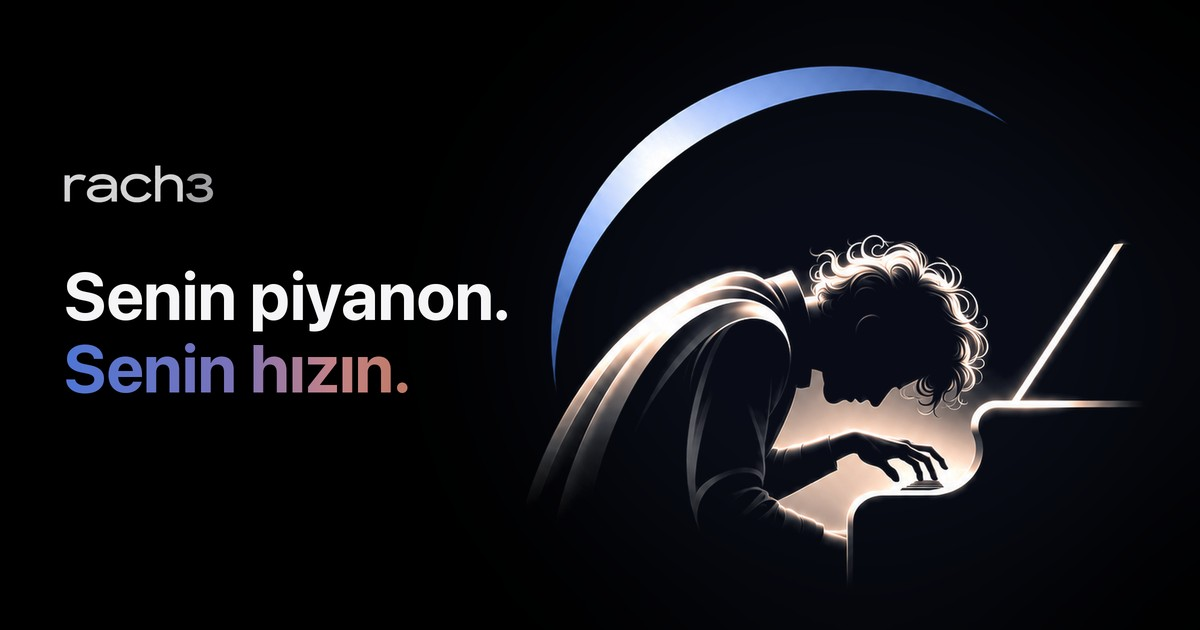
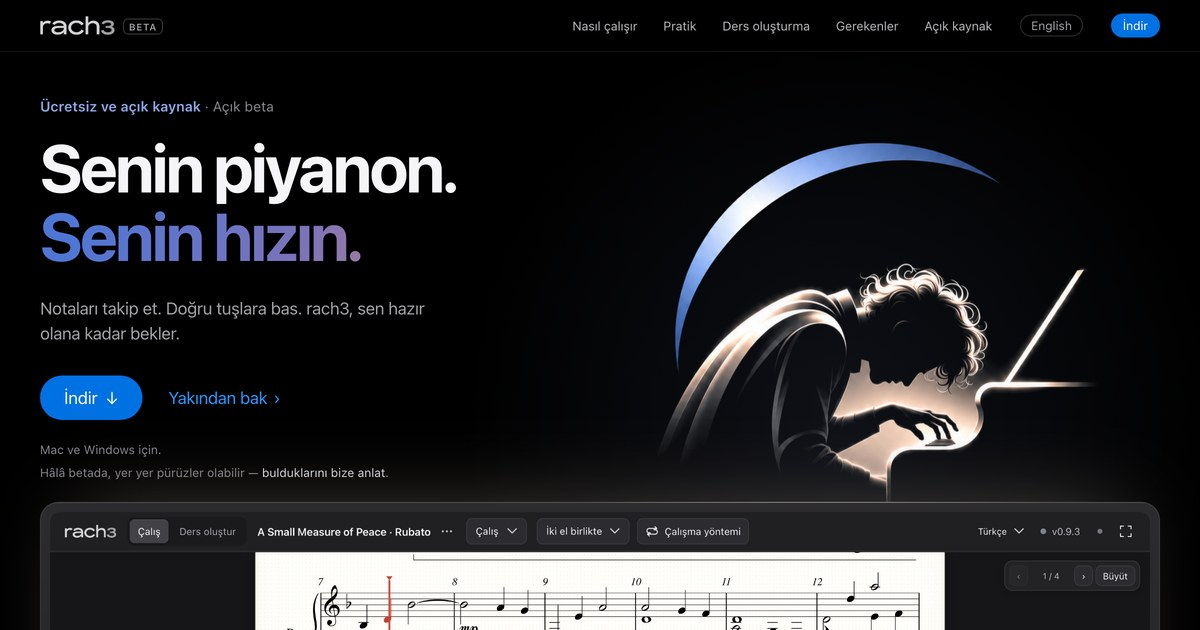
Share the site with a screenshot of its own top
The drawn card is replaced by the page itself: site/social.py opens the built
site in headless Chrome at 1200×630, in English and in Turkish, and saves the
top of the page as the share picture.

diff --git a/site/compose.py b/site/compose.py
@@ -2,8 +2,7 @@
 
 The laptops in some of them were generated with a flat green screen; the app's
 real practice screenshot (English and Turkish) is put onto them here, so every
-screen shows the actual app rather than an imagined one. It also draws the card
-shown when the site is shared (assets/social-card.jpg, and its Turkish twin). Run it after
+screen shows the actual app rather than an imagined one. Run it after
 refreshing the screenshots:
 
     python3 site/compose.py        (needs numpy and Pillow)
@@ -11,7 +10,7 @@ refreshing the screenshots:
 from pathlib import Path
 
 import numpy as np
-from PIL import Image, ImageChops, ImageDraw, ImageFilter, ImageFont
+from PIL import Image, ImageChops, ImageDraw, ImageFilter
 
 ASSETS = Path(__file__).resolve().parent/'assets'
 
@@ -74,61 +73,6 @@ def without_green_glow(image, corners):
     return Image.fromarray(np.clip(rgb, 0, 255).astype(np.uint8))
 
 
-# The picture people see when the site is shared: the hero of the page, as a card.
-CARD = (1200, 630)
-FONT = '/System/Library/Fonts/SFNS.ttf'
-GRADIENT = [(0.0, (0x50, 0x76, 0xd5)), (0.48, (0x7a, 0x73, 0xba)), (0.78, (0xc4, 0x82, 0x88)), (1.0, (0xbf, 0x7b, 0x65))]
-HEADLINES = {'': ('Your piano.', 'Your pace.'), 'tr': ('Senin piyanon.', 'Senin hızın.')}
-
-
-def gradient_fill(size):
-    """The page's blue to coral headline gradient, left to right."""
-    width, height = size
-    x = np.linspace(0, 1, width)
-    stops, colors = zip(*GRADIENT)
-    row = np.stack([np.interp(x, stops, [c[i] for c in colors]) for i in range(3)], axis=1)
-    return Image.fromarray(np.repeat(row[None], height, axis=0).astype(np.uint8), 'RGB')
-
-
-def social_card(folder, headline):
-    scale = 2
-    w, h = CARD[0] * scale, CARD[1] * scale
-    card = Image.new('RGB', (w, h), (0, 0, 0))
-    # the pianist under the moon on the right, with the soft glow the page puts behind it
-    art = Image.open(ASSETS/'rach3-hero.png').convert('RGBA')
-    art = art.resize((round(art.width * 1240 / art.height), 1240), Image.LANCZOS)
-    x = w - art.width + 60
-    glow = Image.new('L', (w, h), 0)
-    ImageDraw.Draw(glow).ellipse([x + 160, 80, x + art.width - 80, h - 40], fill=60)
-    glow = glow.filter(ImageFilter.GaussianBlur(160))
-    card = Image.composite(Image.new('RGB', (w, h), (40, 52, 96)), card, glow)
-    card.paste(art, (x, (h - art.height) // 2 + 20), art)
-    # the wordmark and the headline on the left
-    left = 128
-    mark = Image.open(ASSETS.parent.parent/'brand/rach3-wordmark-on-dark.png').convert('RGBA')
-    mark = mark.resize((round(mark.width * 76 / mark.height), 76), Image.LANCZOS)
-    card.paste(mark, (left, 330), mark)
-    size = 150
-    font = ImageFont.truetype(FONT, size)
-    font.set_variation_by_name('Bold')
-    while max(font.getlength(line) for line in headline) > 900 and size > 80:
-        size -= 4
-        font = ImageFont.truetype(FONT, size)
-        font.set_variation_by_name('Bold')
-    top = 510
-    draw = ImageDraw.Draw(card)
-    draw.text((left, top), headline[0], font=font, fill=(245, 245, 247))
-    second = Image.new('L', (w, h), 0)
-    ImageDraw.Draw(second).text((left, top + round(size * 1.08)), headline[1], font=font, fill=255)
-    box = second.getbbox()
-    paint = Image.new('RGB', (w, h))
-    paint.paste(gradient_fill((box[2] - box[0], box[3] - box[1])), (box[0], box[1]))
-    card = Image.composite(paint, card, second)
-    card = card.resize(CARD, Image.LANCZOS)
-    card.save(folder/'social-card.jpg', quality=90, optimize=True, progressive=True)
-    print(folder/'social-card.jpg')
-
-
 WITH_SCREEN = ('piano-at-home', 'learner-morning', 'learner-night', 'learner-family')   # one copy per language
 PLAIN = ('youtube-cover',)
 
@@ -144,8 +88,6 @@ def main():
         Image.open(ASSETS/f'{name}-source.png').convert('RGB').save(
             ASSETS/f'{name}.jpg', quality=82, optimize=True, progressive=True)
         print(ASSETS/f'{name}.jpg')
-    for language, headline in HEADLINES.items():
-        social_card(ASSETS/language if language else ASSETS, headline)
 
 
 if __name__ == '__main__':

diff --git a/site/social.py b/site/social.py
@@ -1,0 +1,59 @@
+"""Make the picture shown when rach3.com is shared: the top of the page itself.
+
+Builds nothing; it opens the already built site (python3 site/build.py) in
+headless Chrome at 1200×630, once per language, and saves the screenshots as
+assets/social-card.jpg and assets/tr/social-card.jpg. Run it after changing the
+top of the page, then build the site again.
+
+    python3 site/social.py        (needs Google Chrome and Pillow)
+"""
+import functools
+import http.server
+import os
+from pathlib import Path
+import subprocess
+import tempfile
+import threading
+
+from PIL import Image
+
+ROOT = Path(__file__).resolve().parents[1]
+CHROME = '/Applications/Google Chrome.app/Contents/MacOS/Google Chrome'
+SIZE = (1200, 630)
+# Each page opens in its own language: the page's script would otherwise send a
+# visitor to the other one.
+PAGES = {'': ('en-US', 'America/New_York'), 'tr/': ('tr', 'Europe/Istanbul')}
+
+
+class Quiet(http.server.SimpleHTTPRequestHandler):
+    def log_message(self, *args):
+        pass
+
+
+def main():
+    site = ROOT/'build/site'
+    if not (site/'index.html').is_file():
+        raise SystemExit('Build the site first: python3 site/build.py')
+    handler = functools.partial(Quiet, directory=site)
+    server = http.server.ThreadingHTTPServer(('127.0.0.1', 0), handler)
+    threading.Thread(target=server.serve_forever, daemon=True).start()
+    try:
+        for page, (language, zone) in PAGES.items():
+            with tempfile.TemporaryDirectory() as scratch:
+                shot = Path(scratch)/'shot.png'
+                subprocess.run([CHROME, '--headless=new', '--disable-gpu', '--hide-scrollbars',
+                                f'--user-data-dir={scratch}/profile', f'--lang={language}',
+                                '--force-device-scale-factor=2', f'--window-size={SIZE[0]},{SIZE[1]}',
+                                '--virtual-time-budget=5000', f'--screenshot={shot}',
+                                f'http://127.0.0.1:{server.server_port}/{page}'],
+                               check=True, capture_output=True, env={**os.environ, 'TZ': zone})
+                target = ROOT/'site/assets'/page/'social-card.jpg'
+                Image.open(shot).convert('RGB').resize(SIZE, Image.LANCZOS).save(
+                    target, quality=88, optimize=True, progressive=True)
+                print(target)
+    finally:
+        server.shutdown()
+
+
+if __name__ == '__main__':
+    main()

diff --git a/README.md b/README.md
@@ -625,7 +625,12 @@ To refresh product screenshots, run
 capture executable, exports the actual app renderer using an isolated WebKit store
 and preferences, then removes the capture executable. Personal lessons, library
 data, and workspace preferences are not used or modified. Generated artwork
-provenance is recorded in `site/IMAGEGEN.md`.
+provenance is recorded in `site/IMAGEGEN.md`. `python3 site/compose.py` puts the
+practice screenshot onto the laptops in the photos.
+
+The picture shown when the site is shared is the top of the page itself:
+`python3 site/social.py` screenshots the built site at 1200×630 in each language
+into `site/assets/social-card.jpg` and `site/assets/tr/social-card.jpg`.
 
 The app icons, favicons and the website's hero artwork come from one image, the
 pianist under the moon on a black stage: `brand/rach3-artwork.png`. The written
